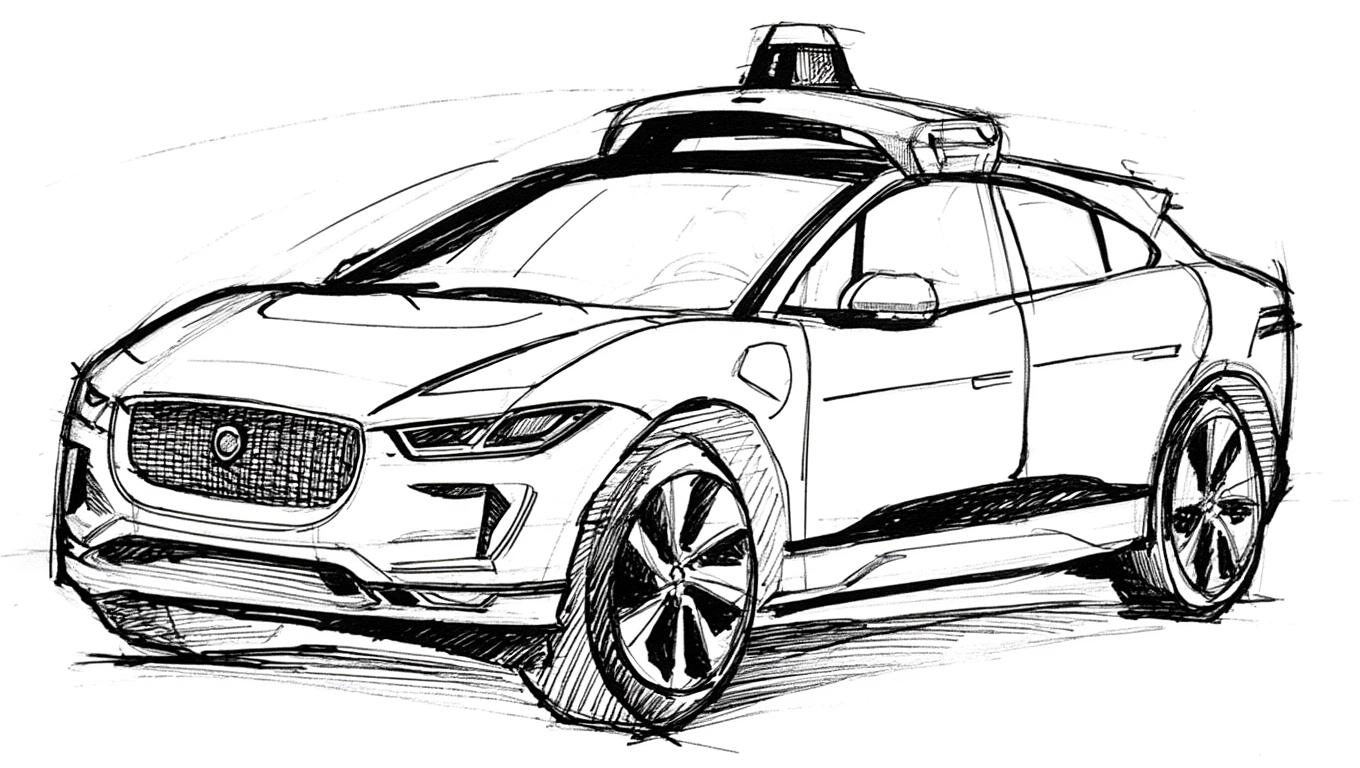
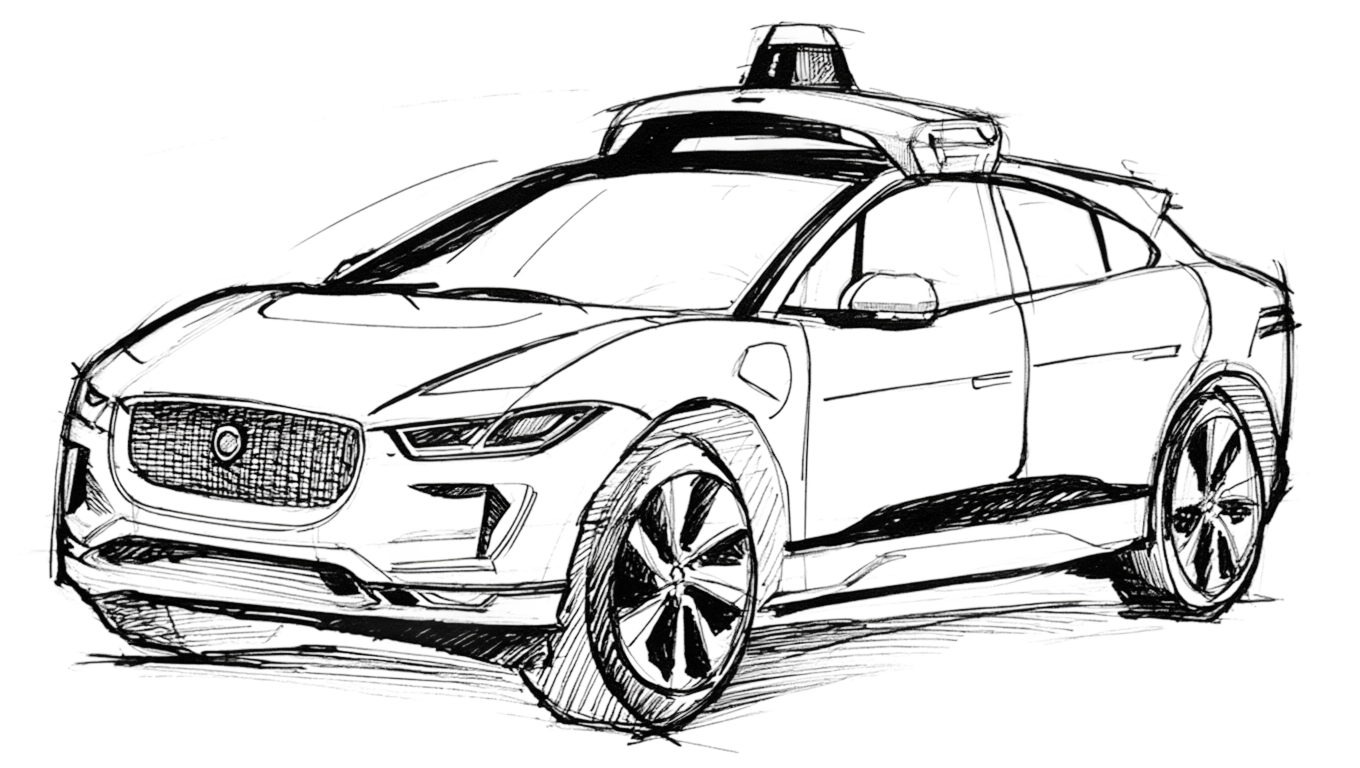
3-frame Waymo flickering animation

Changed region(s): [[0.0309, 0.0312, 0.9574, 0.9688], [0.6794, 0.4688, 0.7721, 0.5], [0.3397, 0.1875, 0.3706, 0.2188]]

diff --git a/src/App.tsx b/src/App.tsx
@@ -183,13 +183,19 @@ function App() {
             src="/waymo-1.png"
             alt="Waymo sketch 1"
             className="absolute inset-0 w-full h-full object-contain"
-            style={{ animation: "waymo-flicker 0.25s steps(1) infinite" }}
+            style={{ animation: "waymo-1 0.4s steps(1) infinite" }}
           />
           <img
             src="/waymo-2.png"
             alt="Waymo sketch 2"
             className="absolute inset-0 w-full h-full object-contain"
-            style={{ animation: "waymo-flicker 0.25s steps(1) infinite reverse" }}
+            style={{ animation: "waymo-2 0.4s steps(1) infinite" }}
+          />
+          <img
+            src="/waymo-3.png"
+            alt="Waymo sketch 3"
+            className="absolute inset-0 w-full h-full object-contain"
+            style={{ animation: "waymo-3 0.4s steps(1) infinite" }}
           />
         </div>
 

diff --git a/src/index.css b/src/index.css
@@ -31,7 +31,16 @@ body::before {
   mix-blend-mode: multiply;
 }
 
-@keyframes waymo-flicker {
-  0%, 49% { opacity: 1; }
-  50%, 100% { opacity: 0; }
+@keyframes waymo-1 {
+  0%, 33.32% { opacity: 1; }
+  33.33%, 100% { opacity: 0; }
+}
+@keyframes waymo-2 {
+  0%, 33.32% { opacity: 0; }
+  33.33%, 66.65% { opacity: 1; }
+  66.66%, 100% { opacity: 0; }
+}
+@keyframes waymo-3 {
+  0%, 66.65% { opacity: 0; }
+  66.66%, 100% { opacity: 1; }
 }
